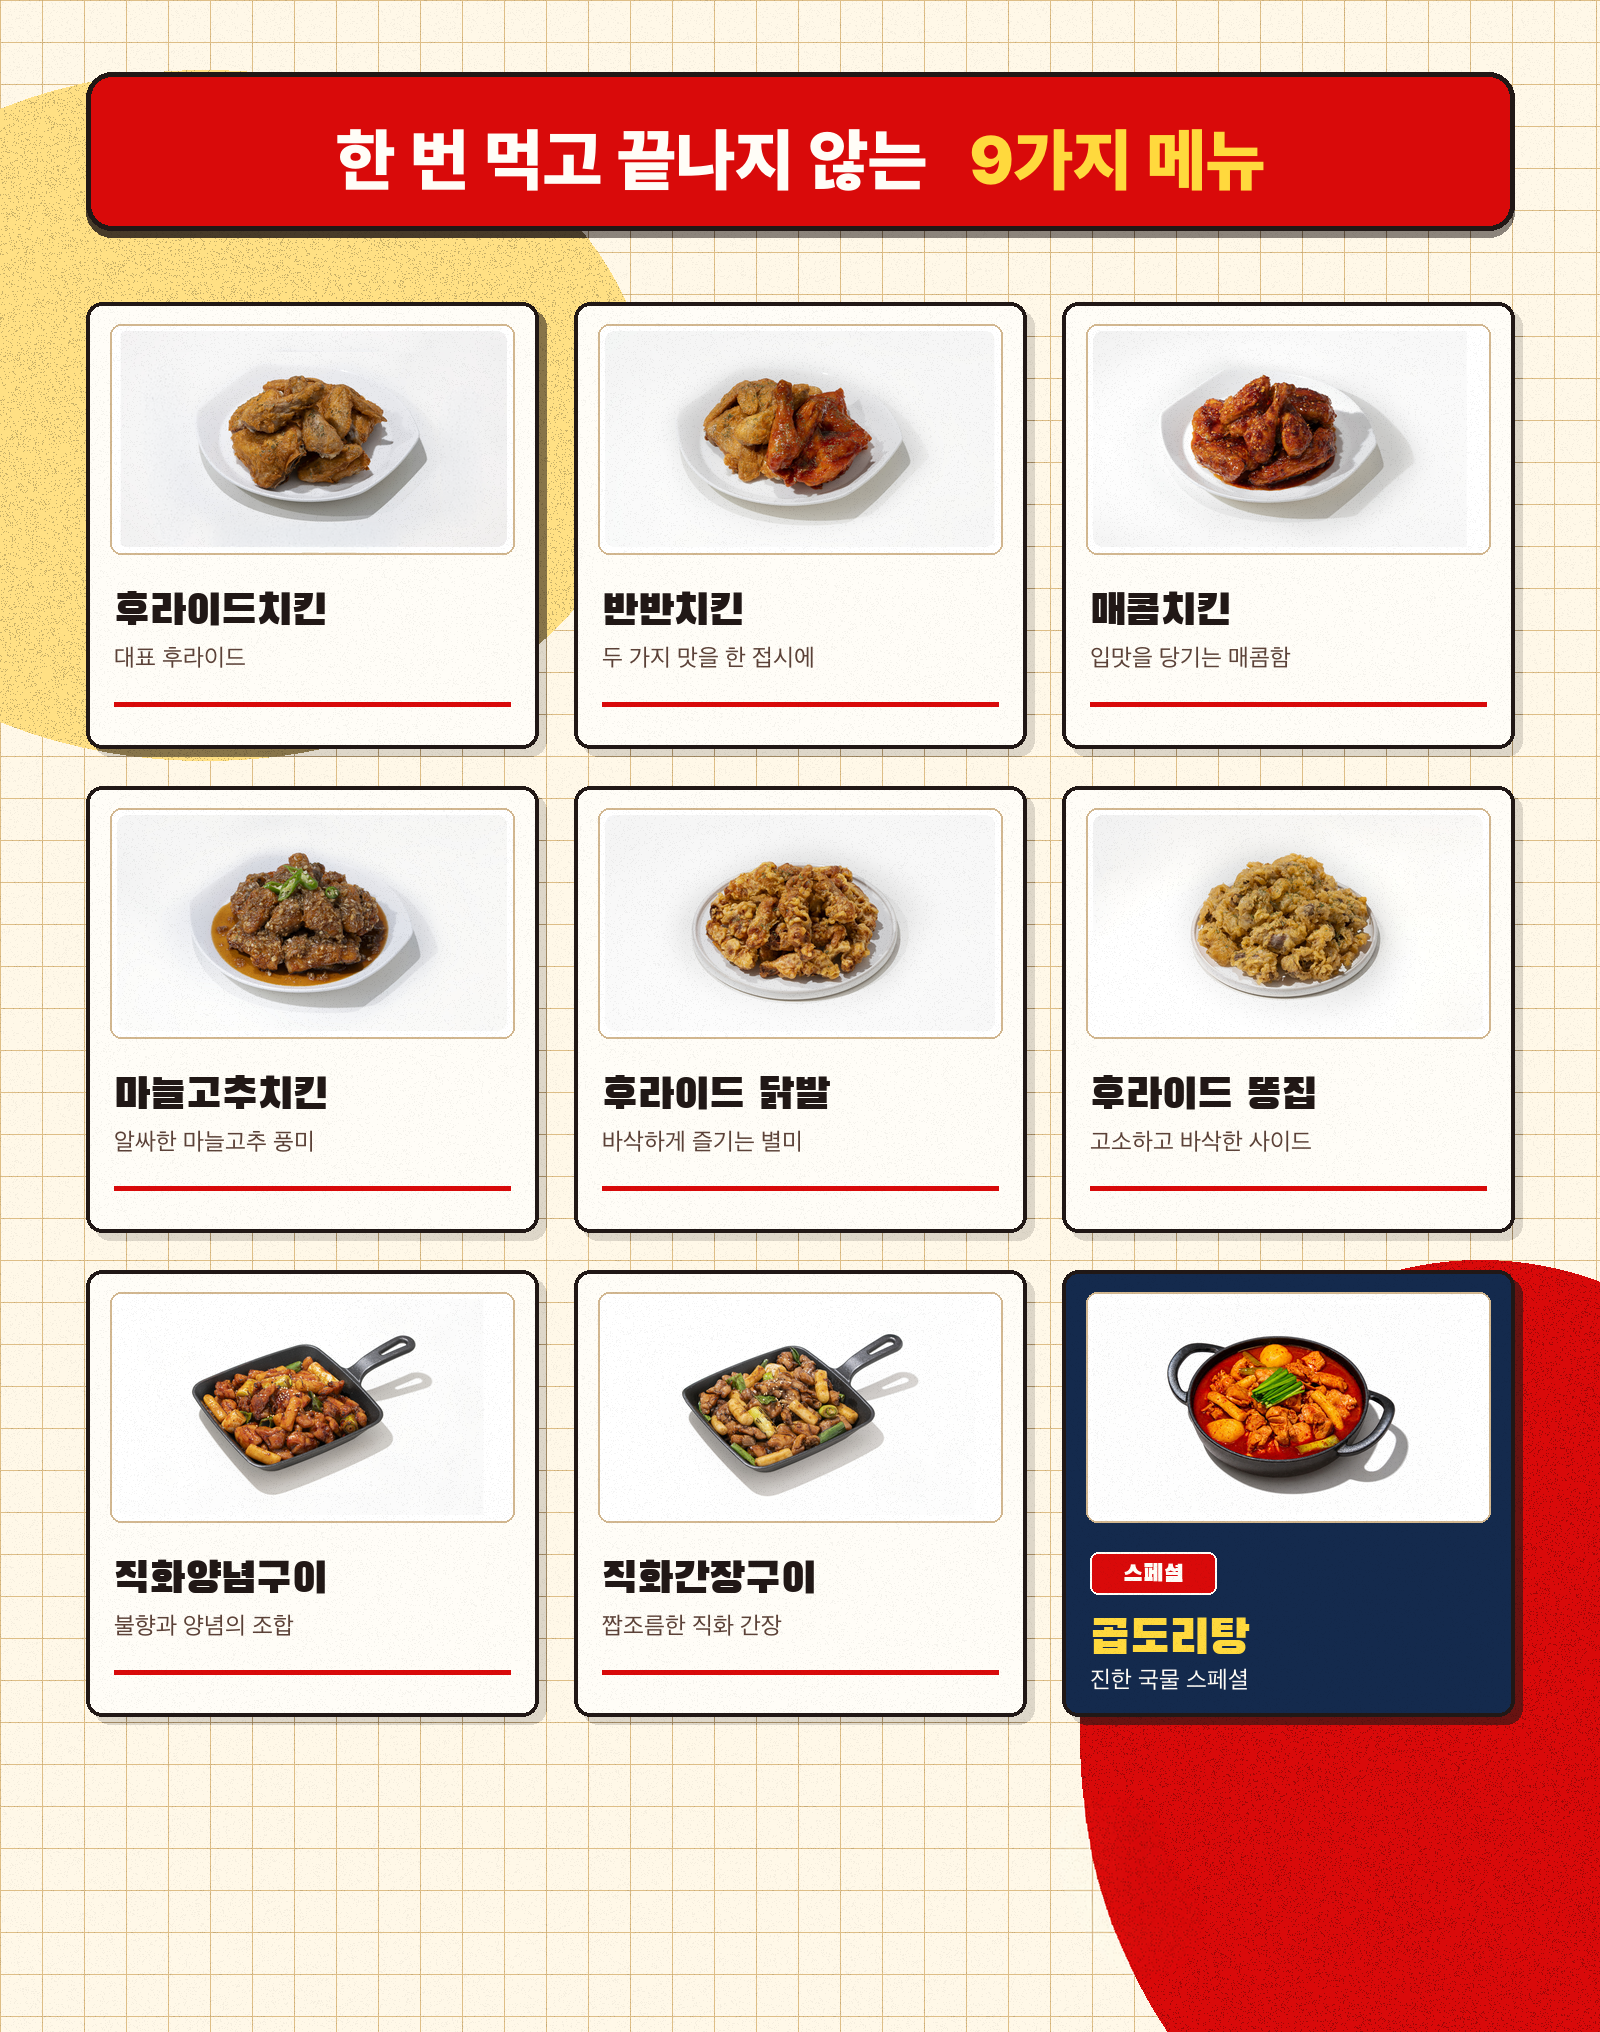
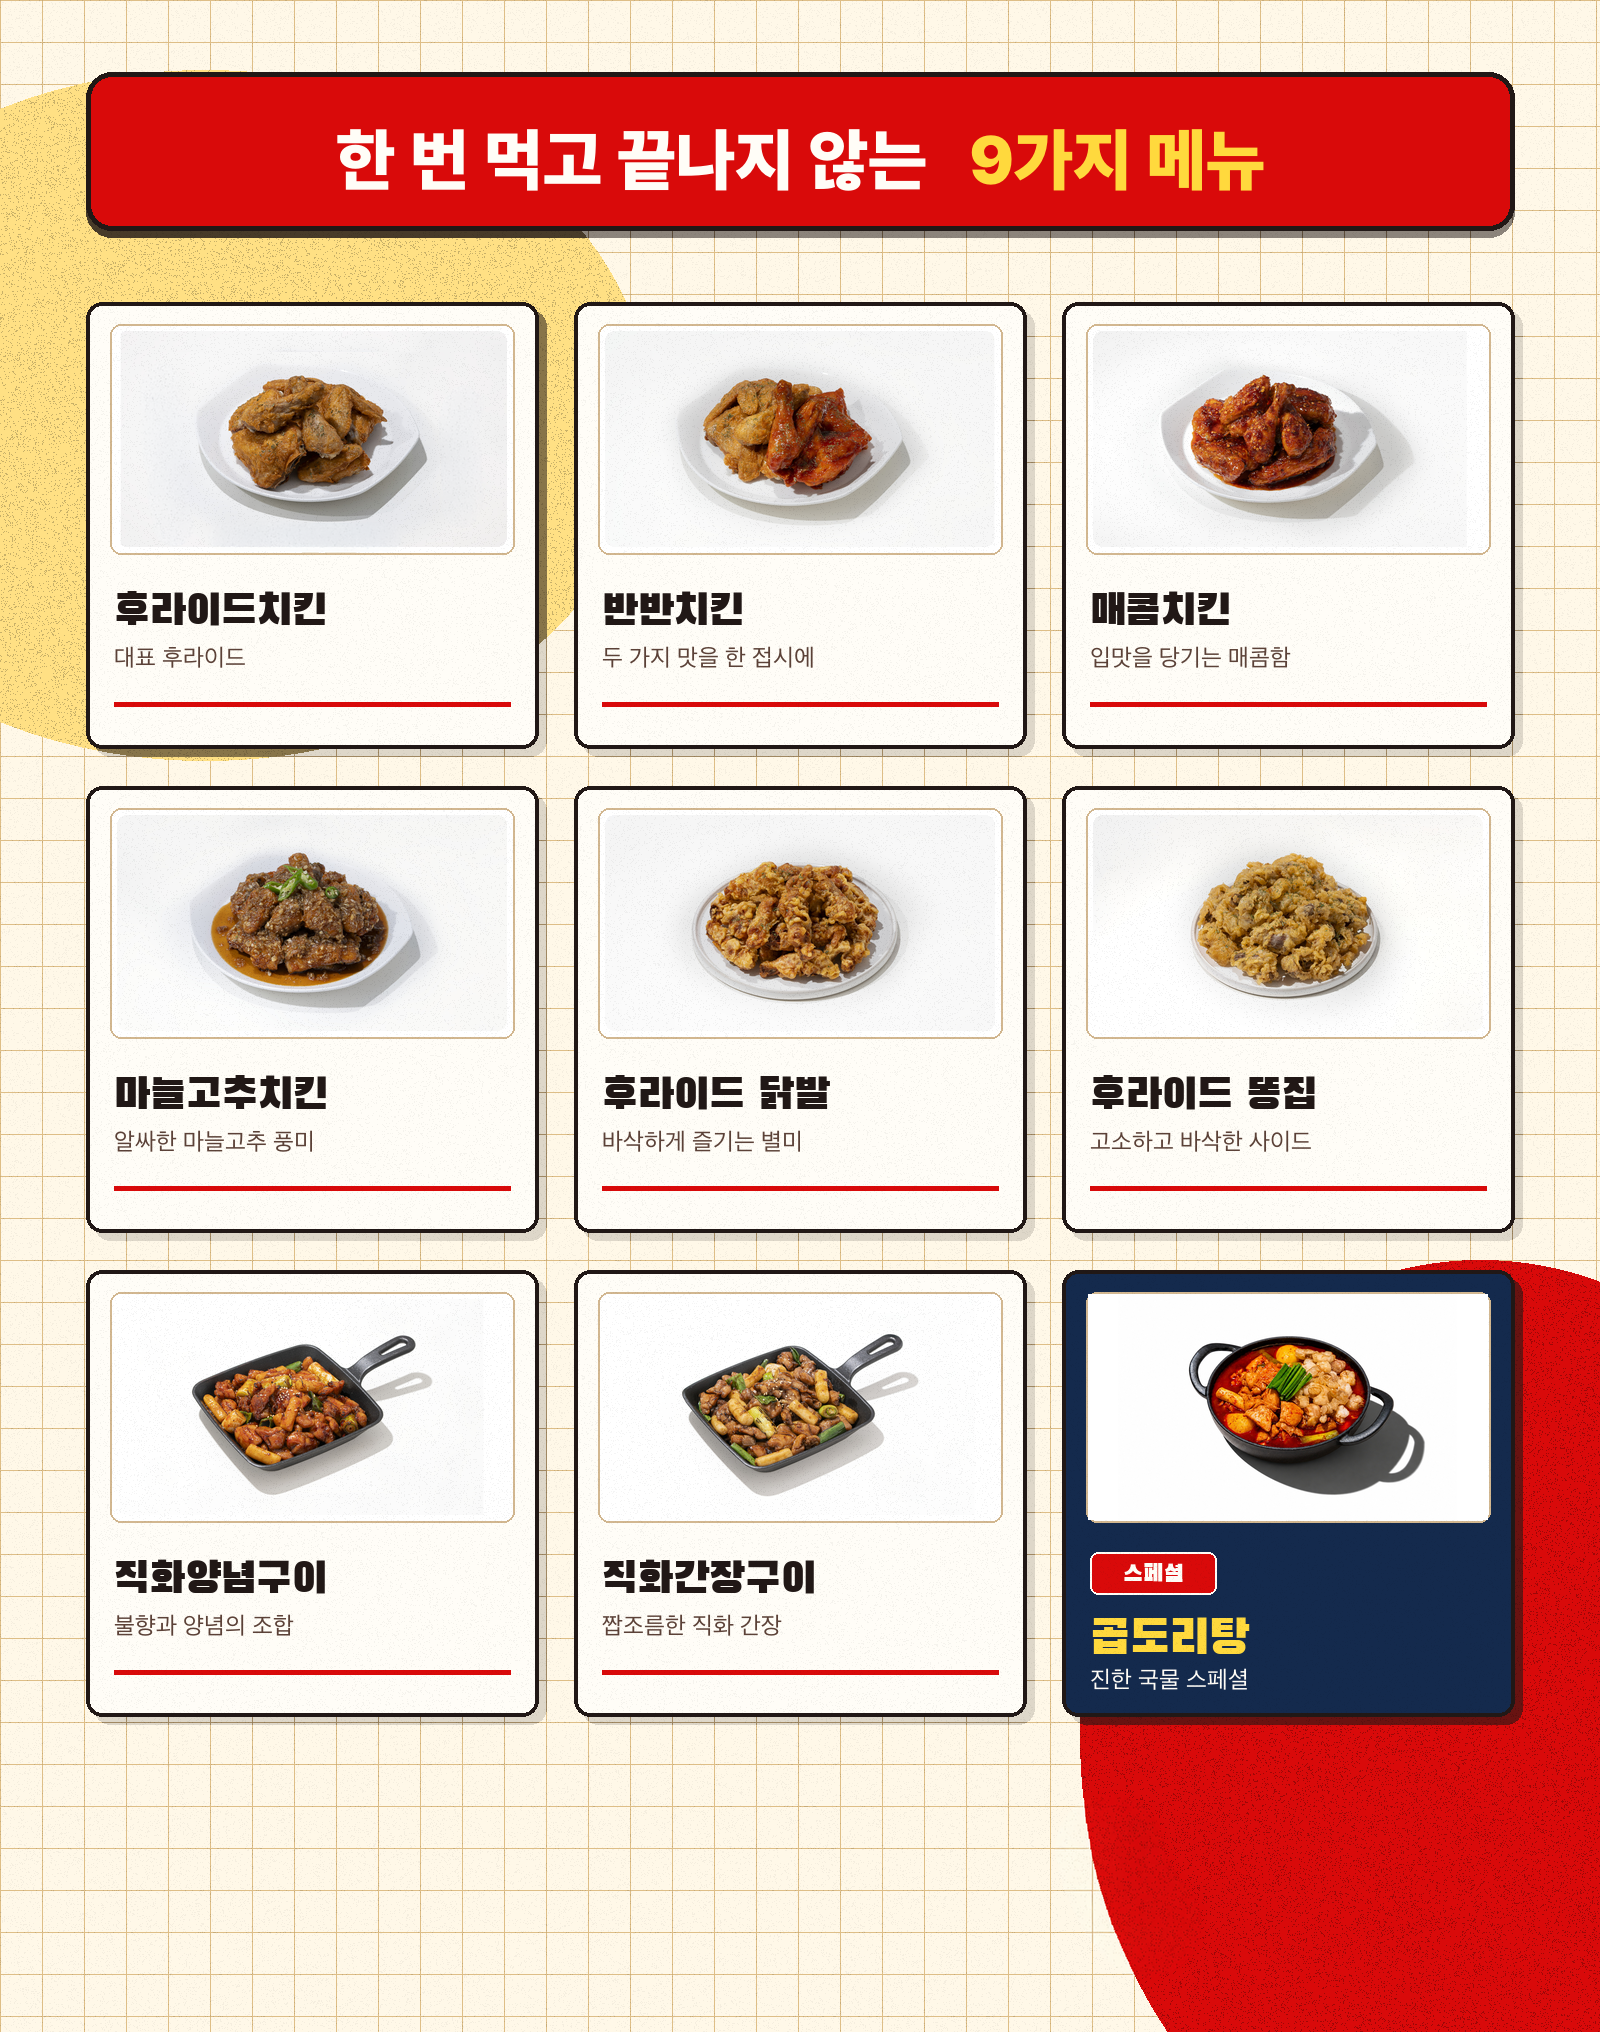
Fix gopdoritang menu photo

Changed region(s): [[0.7188, 0.6511, 0.9062, 0.7441]]

diff --git a/docs/worklog.md b/docs/worklog.md
@@ -1,5 +1,9 @@
 # Worklog
 
+## 2026-06-11 - Gopdoritang Photo Correction
+
+- Replaced the incorrect 곱도리탕 photo in the menu showcase thumbnail and regenerated the composed popular menu board assets.
+
 ## 2026-05-27 - Assertive Copy Tone Reference
 
 - Added `docs/context/assertive-copy-tone.md` to lock the next copy direction without changing the landing structure.
